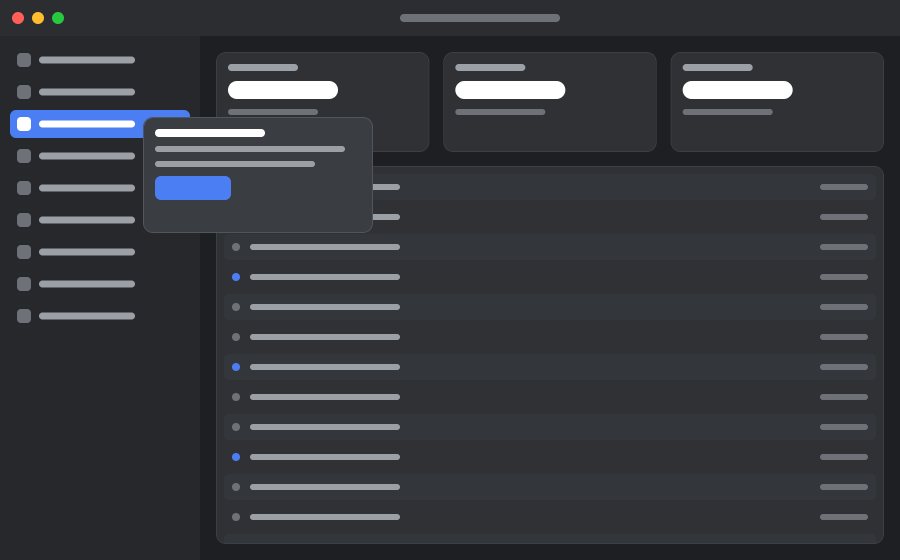
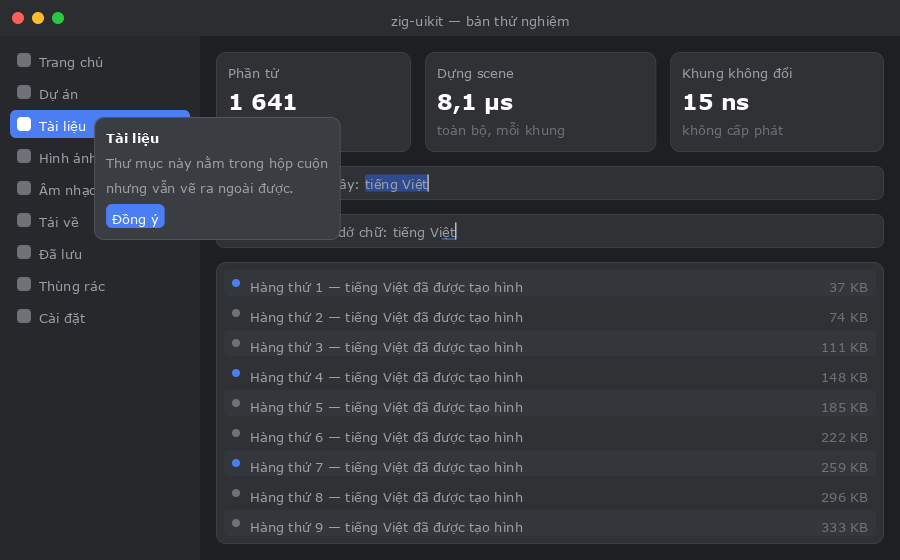
macOS again: Metal draws the 60-byte quad and its glyphs, and the build finds pkg-config
The text commit grew `Quad` to 60 bytes and gave the build a text module
that needs HarfBuzz, FreeType and fontconfig headers, which left the Mac
unable to build. The headers come from Homebrew, as the README now says;
the rest is here.

Metal reads the new `uv` and `flags` attributes and samples an R8Unorm
atlas with `read`, Metal's texelFetch, so a glyph is the same arithmetic
as `drawGlyph` in the reference. `setAtlas` uploads it, waiting for
frames in flight. The gpu demo now has text on Metal: 685 glyphs, 43840
glyph pixels, largest difference 1.

Two faults that were there before, found by running on a second OS:

  - `pkgIncludes` never ran pkg-config. `runAllowFail` does not search
    PATH, so the call always failed and the fallback include paths were
    used; on Ubuntu they happen to be right. It now resolves the program
    with `findProgram` first.
  - The Vietnamese test's decomposed string spelled "vịẹt", not "việt",
    and passed because ẹ and ệ have the same advance. Its mark-height
    assertion compared ế with the dot on i, which Verdana (fontconfig's
    "sans" on a Mac) sets level; it now compares ế with a plain e.

diff --git a/README.md b/README.md
@@ -4,7 +4,7 @@ A declarative GPU UI toolkit for Zig.
 
 > **Status: pre-alpha.** The layout core, the scene layer, a Vulkan renderer
 > with a Wayland window, a Metal renderer with a macOS window, and a shaped-text
-> stack exist and are tested. Text is drawn by the Vulkan backend only so far.
+> stack exist and are tested. Both backends draw text.
 > There are no widgets. Expect the API to change without notice.
 
 ```sh
@@ -12,7 +12,7 @@ zig build test                           # 79 tests, no platform dependencies
 zig build demo                           # renders docs/demo.png in software
 zig build bench -Doptimize=ReleaseFast   # what it costs
 zig build test-text                      # 14 tests, needs a font installed
-zig build test-gpu                       # Vulkan: 7 tests; Metal: 8 tests
+zig build test-gpu                       # Vulkan: 7 tests; Metal: 10 tests
 zig build gpu-demo                       # renders on the GPU, diffs against the reference
 zig build window                         # opens a window and renders into it
 ```
@@ -20,8 +20,8 @@ zig build window                         # opens a window and renders into it
 The last two follow the target: Vulkan and Wayland on Linux, Metal and AppKit
 on macOS. `zig build test` needs nothing. Everything else links fontconfig,
 FreeType and HarfBuzz, because the demos share one source file and that file
-can set text — on macOS that means Homebrew, even for the demo that currently
-draws none.
+can set text — on macOS that means Homebrew:
+`brew install harfbuzz freetype fontconfig pkgconf`.
 
 ![a window's worth of interface, rendered by the software rasteriser](docs/demo.png)
 
@@ -145,7 +145,7 @@ discovered later.
 
 ## Text
 
-`zig build test-text` — 12 tests, and they need a font installed, which is why
+`zig build test-text` — 14 tests, and they need a font installed, which is why
 they are not in `zig build test`.
 
 **HarfBuzz is in the first slice of text, not a later one.** The tempting
@@ -160,6 +160,14 @@ with a missing feature; it is one built on a model that has to be thrown away.
 A test asserts the consequence directly: `tiếng việt` written with precomposed
 characters and written with combining marks must shape to the same width and
 the same glyph count. A per-codepoint renderer fails that.
+
+Running it on a Mac, where fontconfig matches Verdana rather than DejaVu, found
+two faults in the test itself. The combining spelling of `việt` was `e` + dot
+below, which is `ẹ` — a different letter that happens to be as wide as `ệ` — so
+the test compared two different words and passed. And it checked that the
+marks on `ế` rise above the dot of the `i` in `ting`, which is a property of
+the font: Verdana at 15 px sets them exactly level. It now checks that `ế`
+starts higher than a bare `e`, which holds for any font with marks at all.
 
 ### The core does not link a font engine
 
@@ -381,21 +389,35 @@ first picture of it. The image is a 3× nearest-neighbour crop written by
 `zig build demo` from the same framebuffer as the screenshot above, because a
 one-pixel underline in a 900×560 image is a claim nobody can check.
 
-### Text is Vulkan-only so far
+### Text on Metal
 
-The Metal backend has no glyph atlas yet, and until it does the macOS demo is
-built with **no text in it** — `demo.buildUi` takes an optional font set and
-draws the grey bars a design tool uses where text will go. That is deliberate
-rather than lazy: a textured quad reaching a shader with no atlas branch would
-be drawn by the rounded-rectangle branch instead, so every letter would come
-out as a small rounded box. A picture of a bug is worse than a picture of
-missing text.
+The Metal backend has the glyph atlas now: an `R8Unorm` texture, `setAtlas`,
+and the textured branch transcribed into `quad.metal` against
+`texture2d<float>::read`, Metal's `texelFetch`. `gpu-demo` therefore draws the
+same interface on both backends, and on an Apple M1 Pro:
 
-What the Metal side needs is a texture binding, a `setAtlas`, and the textured
-branch in `quad.metal` transcribed from the GLSL — the same ten lines, against
-`texture2d<float>::read` instead of `texelFetch`. It is not written here
-because none of it could be compiled or run on this machine, and three
-untested transcriptions of one formula is one too many.
+```
+631 quads, 37860 bytes uploaded with no repacking
+589 of those quads are glyphs, from a 512x512 atlas
+
+GPU vs software reference, 504000 pixels:
+  largest channel difference   1
+of which 37803 pixels are covered by a glyph:
+  largest channel difference   1
+  glyph pixels differing by > 1 0
+```
+
+`test-gpu` carries the same bit-exactness test as Vulkan's — a diagonal atlas,
+so transposed or off-by-one texel addressing cannot pass — and it passes.
+
+The macOS *window* still draws the grey bars, for the reason below: it is a
+Retina window, and a glyph cannot be scaled.
+
+Getting the text stack to build on a Mac at all found a fault in `build.zig`.
+It asks `pkg-config` where FreeType and HarfBuzz keep their headers, but
+`runAllowFail` does not search `PATH` for the program it runs, so the question
+had never once been asked: the Linux fallback paths answered it everywhere,
+correctly on Debian by coincidence. The program is now resolved first.
 
 One thing the Retina path already settles, though. `Quad.scaled` now asserts
 that the quad is not textured, because **a glyph cannot be scaled**: its atlas
@@ -652,6 +674,9 @@ yet.
 
 ### Not done on macOS
 
+- Text in the window. The renderer draws glyphs exactly; what is missing is
+  shaping at the device pixel size, so that a Retina window gets glyphs
+  rasterised for two pixels per point rather than none.
 - Live resize. While the user drags a window edge AppKit runs its own event
   loop inside `sendEvent:`, and this loop does not draw until it returns.
   Untested; rendering from the resize callback or a display link is the fix.
